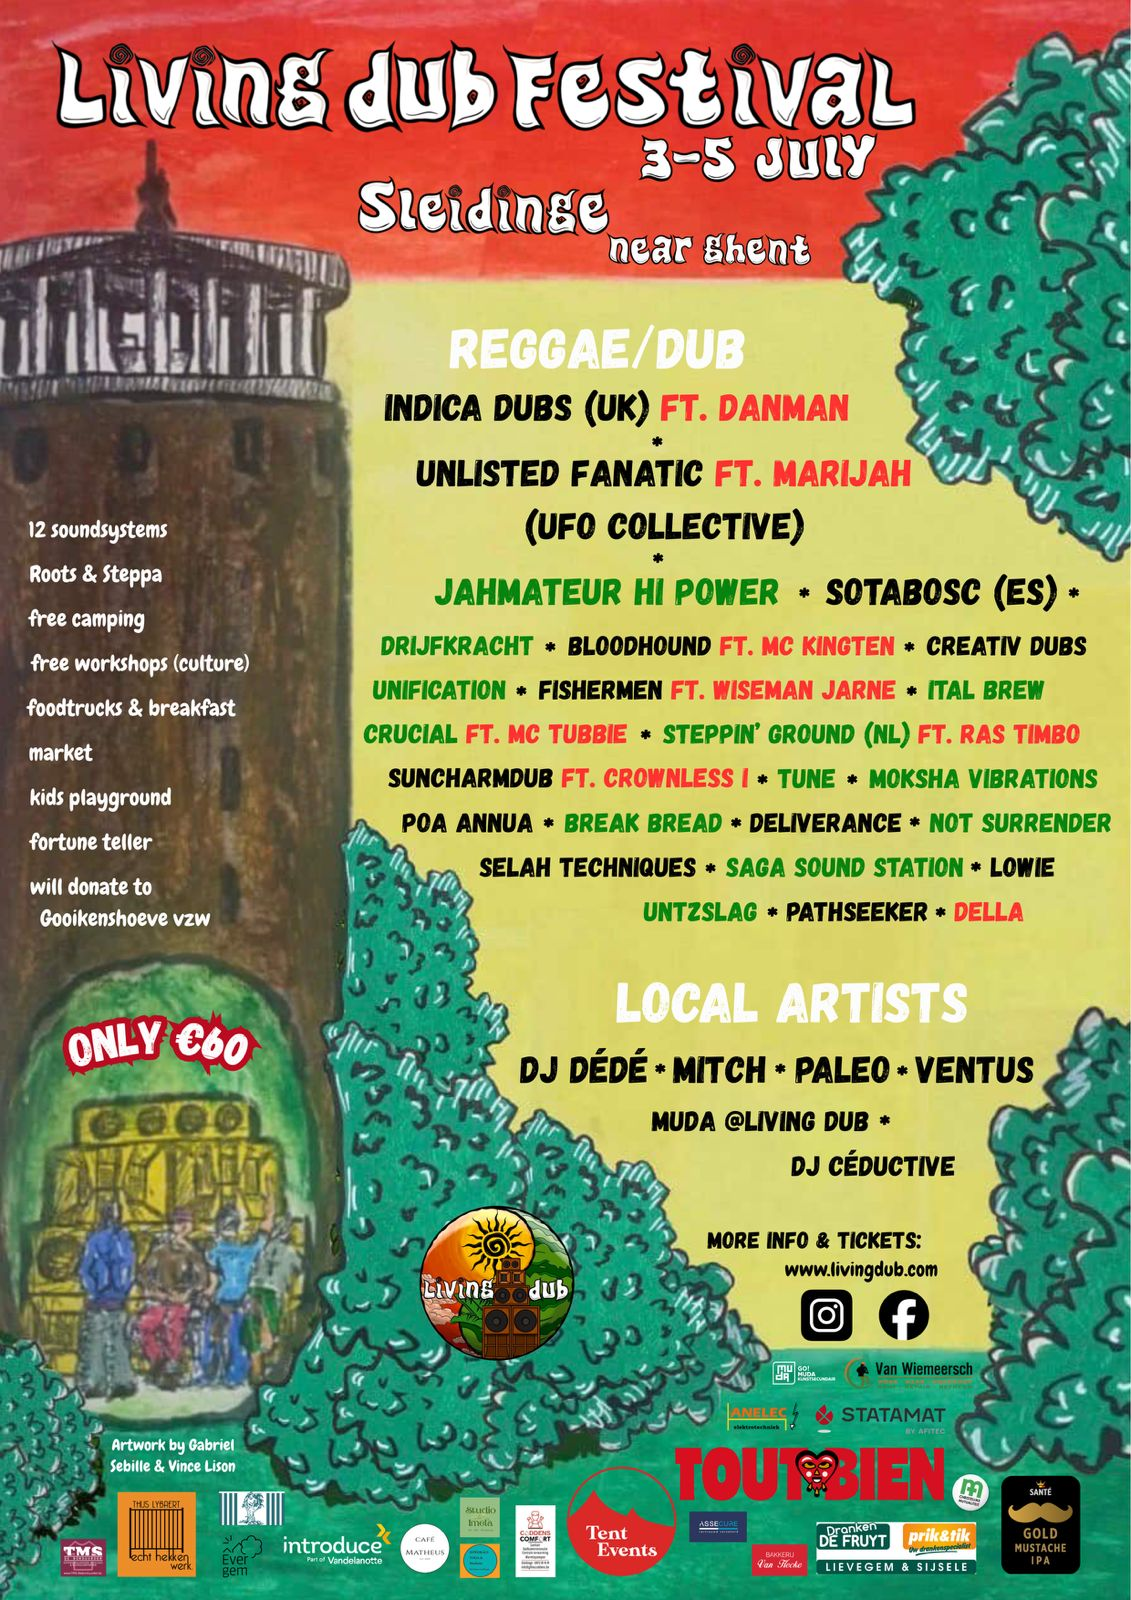
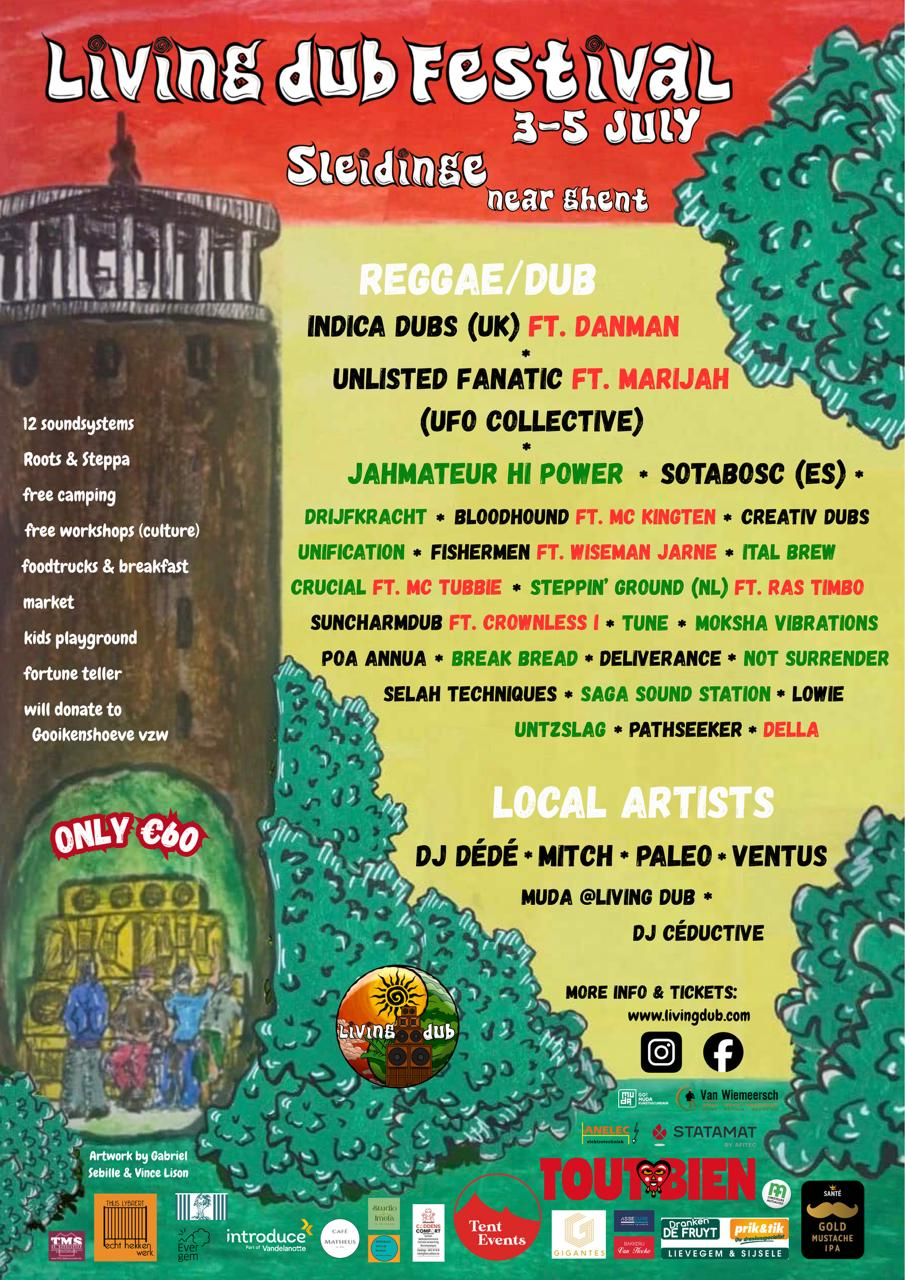
Rename Suncharm to Suncharmdub across all files

diff --git a/src/app/utils/imageLookup.ts b/src/app/utils/imageLookup.ts
@@ -56,8 +56,7 @@ const crewImageMap = buildMap([
   ["Sotabosc", "sotobosc.jpg"],
   ["Sotobosc", "sotobosc.jpg"],
   ["Steppin Ground", "steppin ground.png"],
-  ["Suncharm", "suncharm.jpg"],
-  ["suncharmdub", "suncharm.jpg"],
+  ["Suncharmdub", "suncharm.jpg"],
   ["Tune", "tune.jpg"],
   ["UFO Collective", "ufo collective.jpg"],
   ["Unification", "unification.jpg"],

diff --git a/src/imports/living-dub-festival-design-sys.md b/src/imports/living-dub-festival-design-sys.md
@@ -409,7 +409,7 @@ Fishermen
 Poa Annua
 Deliverance
 Crucial
-Suncharm
+Suncharmdub
 MUDA
 Ventus
 MITCH & Paleo

diff --git a/src/imports/living-dub-festival-ui.md b/src/imports/living-dub-festival-ui.md
@@ -426,7 +426,7 @@ Fishermen
 Poa Annua
 Deliverance
 Crucial
-Suncharm
+Suncharmdub
 MUDA
 Ventus
 MITCH & Paleo
